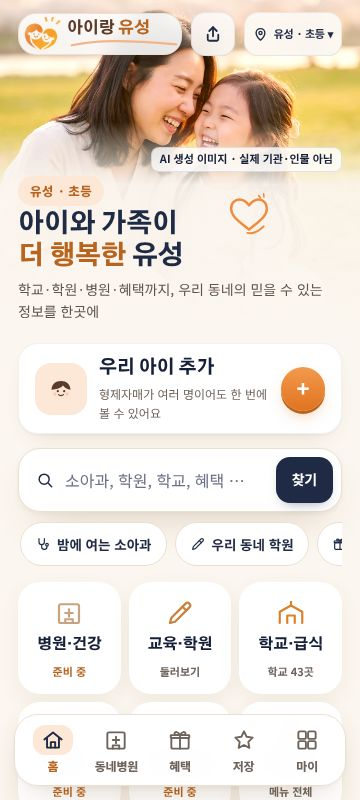
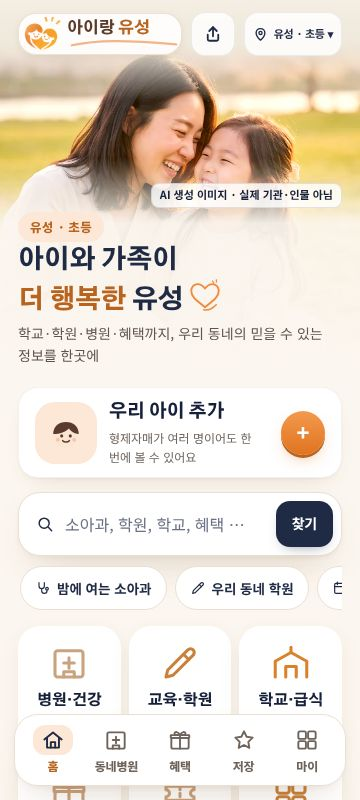
1109 상단 이름 잘림 수정(긴 구 이름: 지역 버튼 짧게·간격 줄임) + 보이는 영역 검사 추가
Claude-Session: https://claude.ai/code/session_01Av7xmGvufoCKB7F6raS8o2

diff --git a/app/index.html b/app/index.html
@@ -480,6 +480,8 @@ h2{font-size:var(--fs-h2);font-weight:800;letter-spacing:-.3px}
   .hero-v3{background:linear-gradient(180deg,#E9E2D3 0,#EFE8DB 70px,var(--ivory) 100%)}
   .hero-v3 .ph{margin-top:44px;-webkit-mask-image:linear-gradient(180deg,transparent 0,#000 56px);mask-image:linear-gradient(180deg,transparent 0,#000 56px)}
 }
+.brand-round.long{font-size:clamp(15px,4.3vw,21px)}
+@media (max-width:430px){.top3.long{gap:6px;padding-left:12px;padding-right:12px}.top3.long .brand3{gap:5px;padding:3px 9px 3px 4px}.top3.long .logo3{width:36px;height:32px}.top3.long .topbar-region{padding:0 9px!important}.top3.long .brand-under{width:96px}}   /* 2026-11-09: '대전 동구' 등 긴 이름이 공유 버튼 뒤로 잘리던 것 → 좁은 폰에서만 조금 작게 */
 .hero-v3 .t3 h1 .doodle-heart{position:static;display:inline-block;vertical-align:-6px;margin-left:2px;width:40px;height:36px}
 .kidadd .kid-ic{width:62px;height:62px;border-radius:20px}.kidadd .kid-ic svg{width:46px;height:46px}
 .home-menu .hm .bi{width:42px!important;height:42px!important}.home-menu .hm .bi svg{width:42px;height:42px}
@@ -931,11 +933,11 @@ const KID_ICON = `<svg viewBox="0 0 48 48" width="34" height="34" fill="none" ar
 const HEART_DOODLE = `<svg class="doodle-heart" viewBox="0 0 64 56" width="52" height="46" fill="none" aria-hidden="true"><path d="M32 46 C20 36 10 30 10 20 C10 13 15 9 20 9 C25 9 29 12 32 16 C35 12 39 9 44 9 C49 9 54 13 54 20 C54 30 44 36 32 46 Z" stroke="#F08A3C" stroke-width="3" stroke-linecap="round" stroke-linejoin="round"/><path d="M30 50 c8 2 14 -2 20 -8" stroke="#F08A3C" stroke-width="2.4" stroke-linecap="round"/><path d="M44 4 l2 3 M50 2 l.4 3.6" stroke="#F08A3C" stroke-width="2" stroke-linecap="round"/></svg>`;
 const LEAF_DOODLE = `<svg class="doodle-leaf" viewBox="0 0 90 90" width="86" height="86" fill="none" aria-hidden="true"><path d="M62 10 C44 14 36 30 40 50 C58 46 68 30 62 10 Z" fill="#F3D9A6" opacity=".85"/><path d="M84 36 C68 34 54 46 52 64 C70 66 84 54 84 36 Z" fill="#F0C98A" opacity=".8"/><path d="M40 50 C44 64 52 76 66 86" stroke="#E2B06A" stroke-width="2.2" stroke-linecap="round" opacity=".8"/></svg>`;
 function topBarV3() {
-  return `<div class="top3">
+  return `<div class="top3${"{{name}}".length > 3 ? " long" : ""}">
       <div class="brand3"><img class="logo3" src="assets/brand/logo-symbol.png" width="44" height="39" alt="아이랑 로고" decoding="async">
-      <div style="min-width:0;line-height:1.1"><div class="brand-t brand-round" style="white-space:nowrap">아이랑 <span style="color:var(--orange-ink)">{{name}}</span></div><svg class="brand-under" viewBox="0 0 120 10" width="110" height="9" aria-hidden="true"><path d="M2 7 C30 1 60 1 118 6" stroke="#F3B48A" stroke-width="2.4" stroke-linecap="round" fill="none"/></svg></div></div>
+      <div style="min-width:0;line-height:1.1"><div class="brand-t brand-round${"{{name}}".length > 3 ? " long" : ""}" style="white-space:nowrap">아이랑 <span style="color:var(--orange-ink)">{{name}}</span></div><svg class="brand-under" viewBox="0 0 120 10" width="110" height="9" aria-hidden="true"><path d="M2 7 C30 1 60 1 118 6" stroke="#F3B48A" stroke-width="2.4" stroke-linecap="round" fill="none"/></svg></div></div>
       <button class="chip glass" aria-label="지인에게 알려주기" title="지인에게 알려주기" style="flex:0 0 auto;width:44px;height:44px;padding:0;justify-content:center;color:var(--navy)" onclick="shareApp()"><svg width="18" height="18" viewBox="0 0 24 24" fill="none" stroke="currentColor" stroke-width="2.4" stroke-linecap="round" stroke-linejoin="round" aria-hidden="true"><path d="M12 3v12"/><path d="M7 8l5-5 5 5"/><path d="M5 13v6a2 2 0 0 0 2 2h10a2 2 0 0 0 2-2v-6"/></svg></button>
-      <button class="chip glass topbar-region" style="flex:0 0 auto;font-size:12px;padding:0 12px;height:44px;color:var(--navy)" onclick="go('region')">${icon.pin} ${esc(regionLabel().replace("{{f.sgg}} 전체", "{{name}}").replace("{{name}} ", ""))} · ${levelLabel()} ▾</button></div>`;
+      <button class="chip glass topbar-region" style="flex:0 0 auto;font-size:12px;padding:0 12px;height:44px;color:var(--navy)" onclick="go('region')">${icon.pin} ${esc(regionLabel().replace("{{f.sgg}} 전체", "{{name}}").replace("{{name}} ", "").replace(/^대전 /, ""))} · ${levelLabel()} ▾</button></div>`;   // 2026-11-09: 지역 버튼은 '동구 · 초등'처럼 짧게(확정 원본 '유성 · 초등'과 같은 꼴) — 상단 이름이 잘리지 않게
 }
 function heroV3(inner) {
   return `<section class="scape hero-v3"><picture><source media="(min-width:700px)" srcset="assets/scenes/home-w.webp 1600w, assets/scenes/home-w2.webp 2400w" sizes="100vw"><img class="ph" src="assets/scenes/home-m.webp" srcset="assets/scenes/home-m.webp 800w, assets/scenes/home-m2.webp 1400w" sizes="100vw" width="800" height="615" alt="" fetchpriority="high" decoding="async"></picture>

diff --git a/tests/e2e/design.spec.js b/tests/e2e/design.spec.js
@@ -130,3 +130,20 @@ test("@디자인 입구: 카드 사진 AI 생성 표기(사진 밖 별도 줄)",
   const inside = await page.evaluate(() => { const n = document.querySelector(".ai-note").getBoundingClientRect(); return [...document.querySelectorAll(".city .pic")].some((p) => { const b = p.getBoundingClientRect(); return n.top < b.bottom && n.bottom > b.top && n.left < b.right && n.right > b.left; }); });
   expect(inside, "표기가 사진 위에 겹침").toBe(false);
 });
+
+// 2026-11-09 견본 육안에서 발견: 긴 구 이름이 공유 버튼 뒤로 잘림 — 글자 내용 검사로는 못 잡아 '보이는 영역' 검사 추가
+for (const [key, name] of Object.entries(B.names)) {
+  test(`@디자인 ${name}: 상단 이름이 잘리거나 버튼에 가리지 않음`, async ({ page }) => {
+    await page.goto(`/${key}/`); await expect(page.locator(".brand-round").first()).toBeVisible();
+    await page.evaluate(() => document.fonts.ready);
+    const r = await page.evaluate(() => {
+      const t = document.querySelector(".brand-round"), box = document.querySelector(".brand3").getBoundingClientRect();
+      const range = document.createRange(); range.selectNodeContents(t); const tx = range.getBoundingClientRect();
+      const btns = [...document.querySelectorAll(".top3 > button")].map((b) => b.getBoundingClientRect());
+      return { textRight: Math.round(tx.right), boxRight: Math.round(box.right), firstBtnLeft: Math.round(Math.min(...btns.map((b) => b.left))), clipped: t.scrollWidth > t.clientWidth + 1, fs: getComputedStyle(t).fontSize };
+    });
+    expect(r.clipped, "이름 글자 넘침").toBe(false);
+    expect(r.textRight, `이름 끝(${r.textRight})이 받침(${r.boxRight}) 안`).toBeLessThanOrEqual(r.boxRight + 1);
+    expect(r.boxRight, `받침 끝이 버튼(${r.firstBtnLeft})보다 왼쪽`).toBeLessThanOrEqual(r.firstBtnLeft);
+  });
+}
